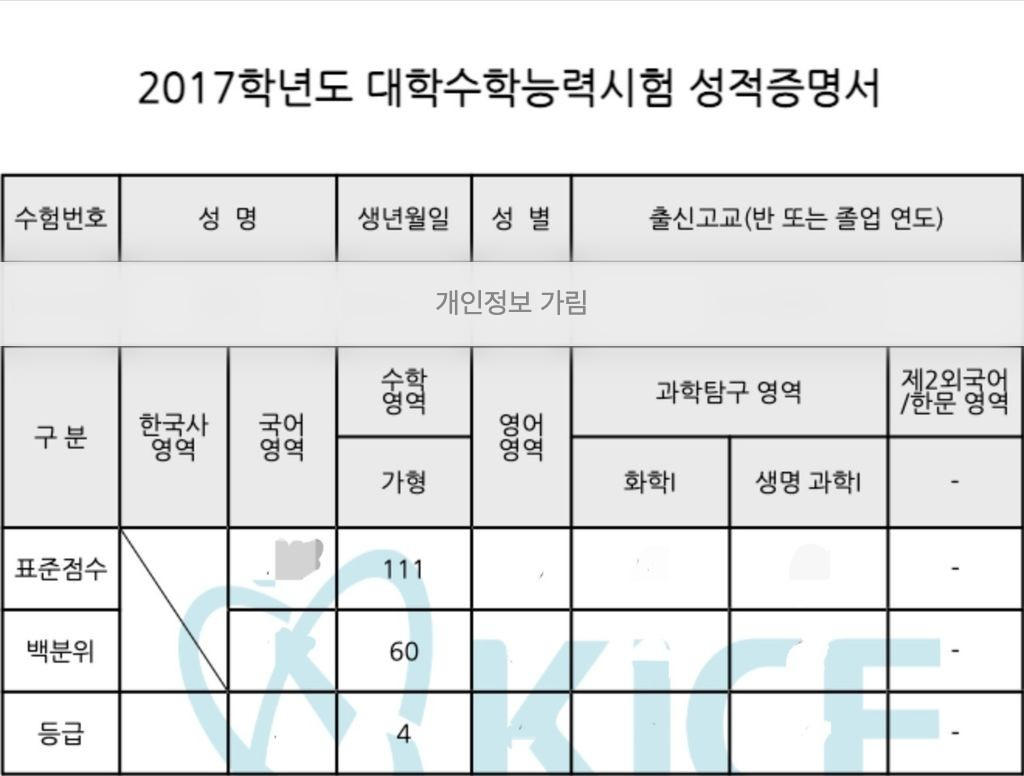
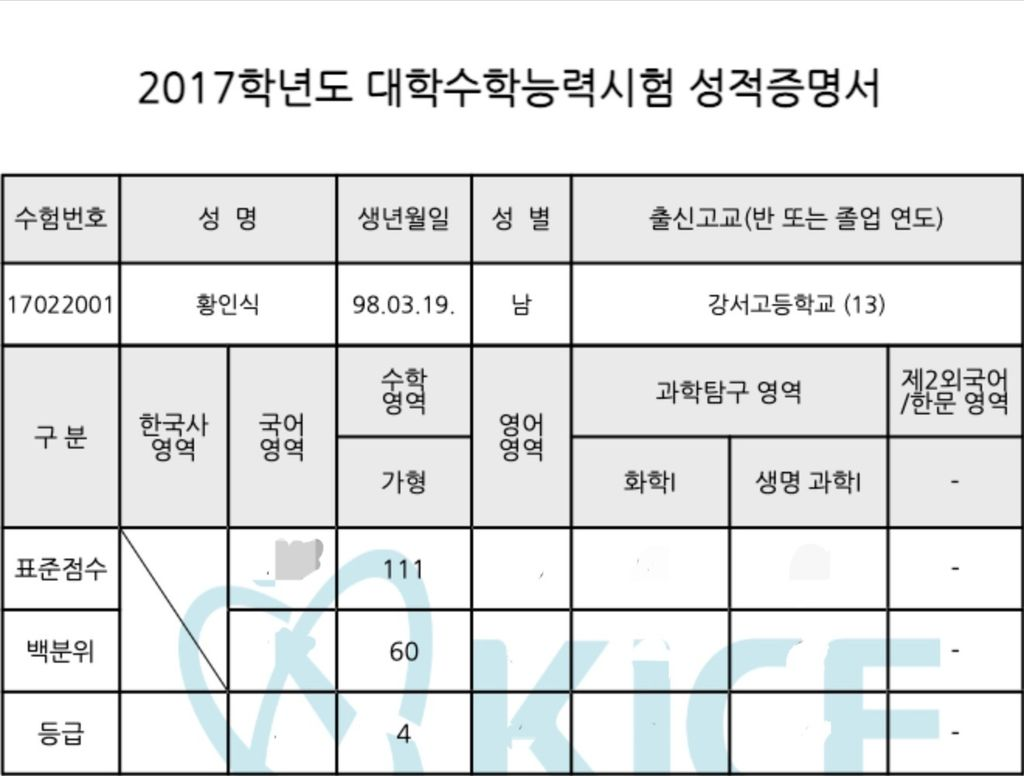
성적증명서 원본 이미지로 교체

Changed region(s): [[0.0, 0.3093, 1.0, 0.4639], [0.6875, 0.3711, 0.875, 0.4021], [0.1875, 0.3711, 0.25, 0.4021]]

diff --git a/index.html b/index.html
@@ -524,7 +524,7 @@ footer .wrap { display: flex; flex-wrap: wrap; justify-content: space-between; g
 <footer>
   <div class="wrap">
     <span>MATH X-RAY · 수능 수학 1:1 과외</span>
-    <span>성적증명서의 개인정보는 가림 처리했습니다.</span>
+    <span>성적증명서는 한국교육과정평가원 발급 원본입니다.</span>
   </div>
 </footer>
 
